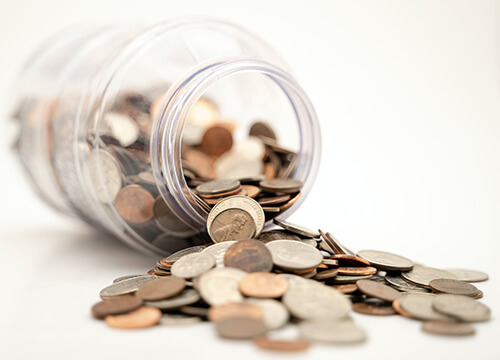
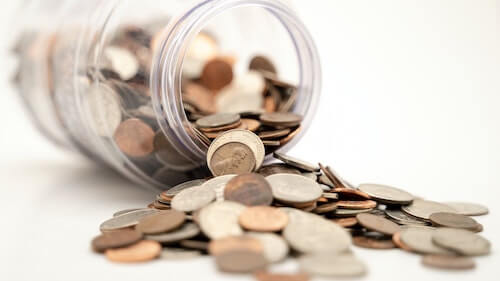
Bildoptimering, Stilmall
- La till att nyhetstabell visar att den är i fokus.
- Bild optimeringar.

diff --git a/assets/css/main.css b/assets/css/main.css
@@ -639,7 +639,7 @@ a.cal-ev .cal-ev-col {
 .rwd-table tr:nth-child(even){
     background-color: #EEE;
 }
-.rwd-table tr:hover {
+.rwd-table tr:hover, .rwd-table tr:focus {
     cursor: pointer;
     color: #000;
     background-color: #{{ site.color.light }};
